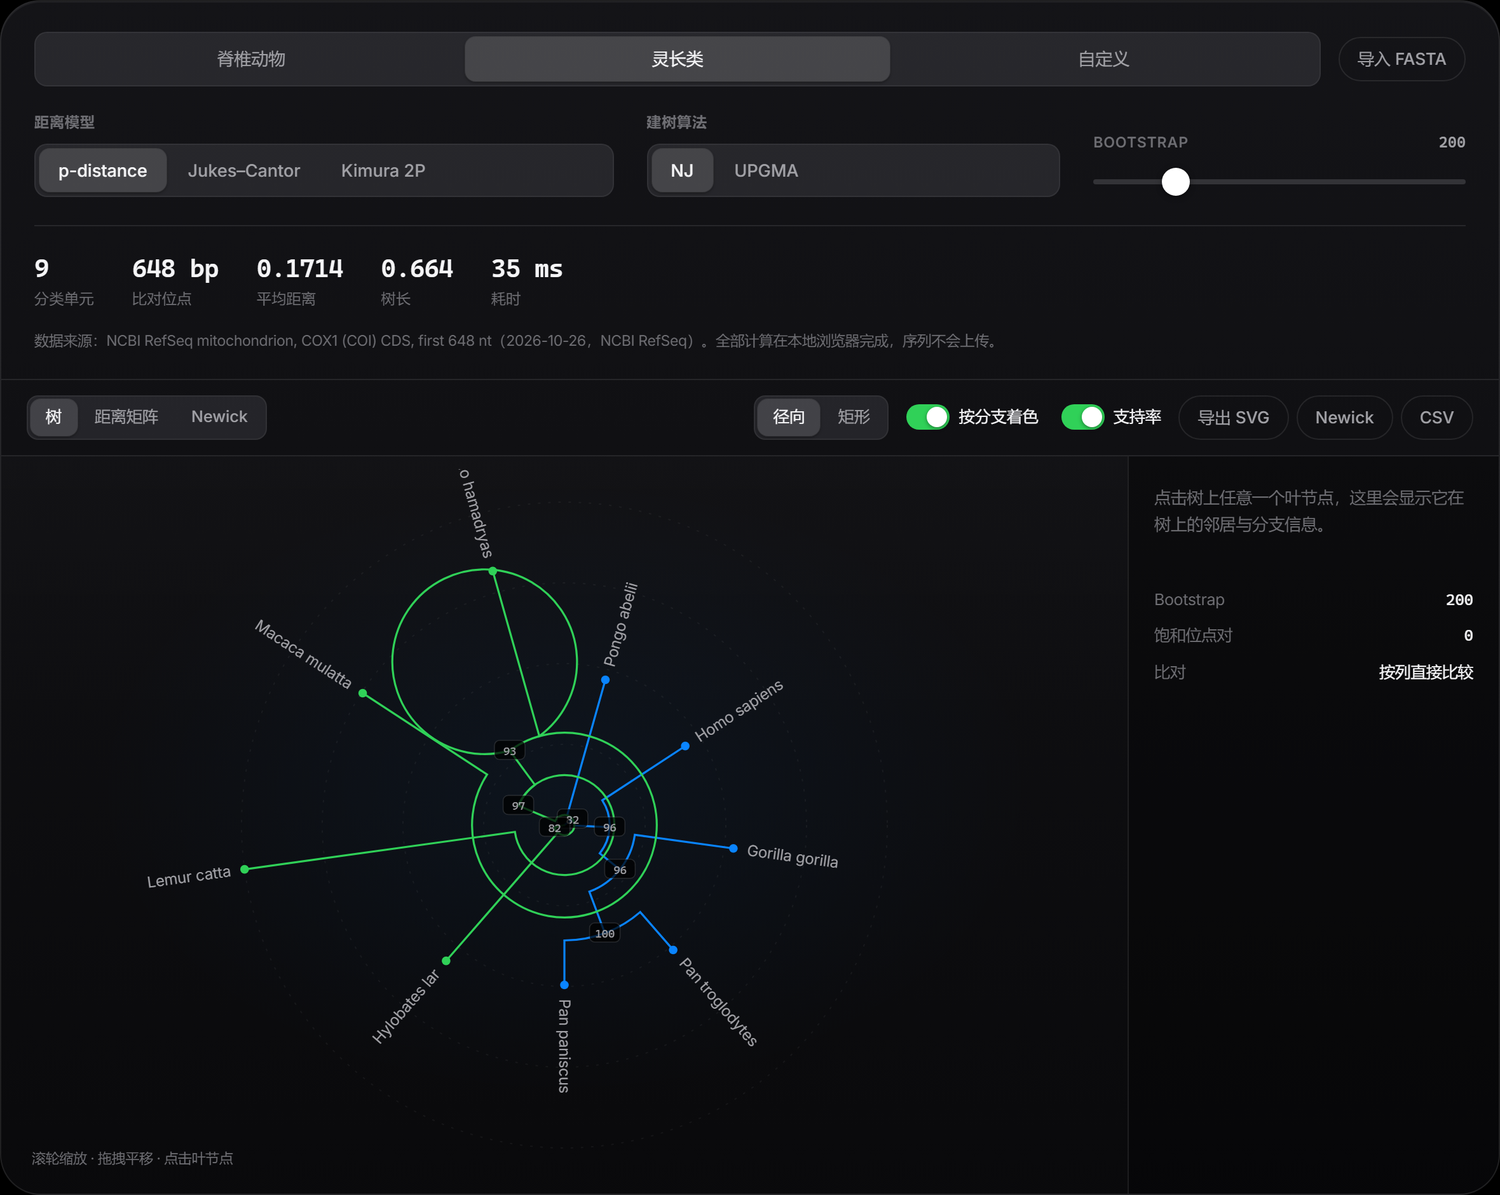
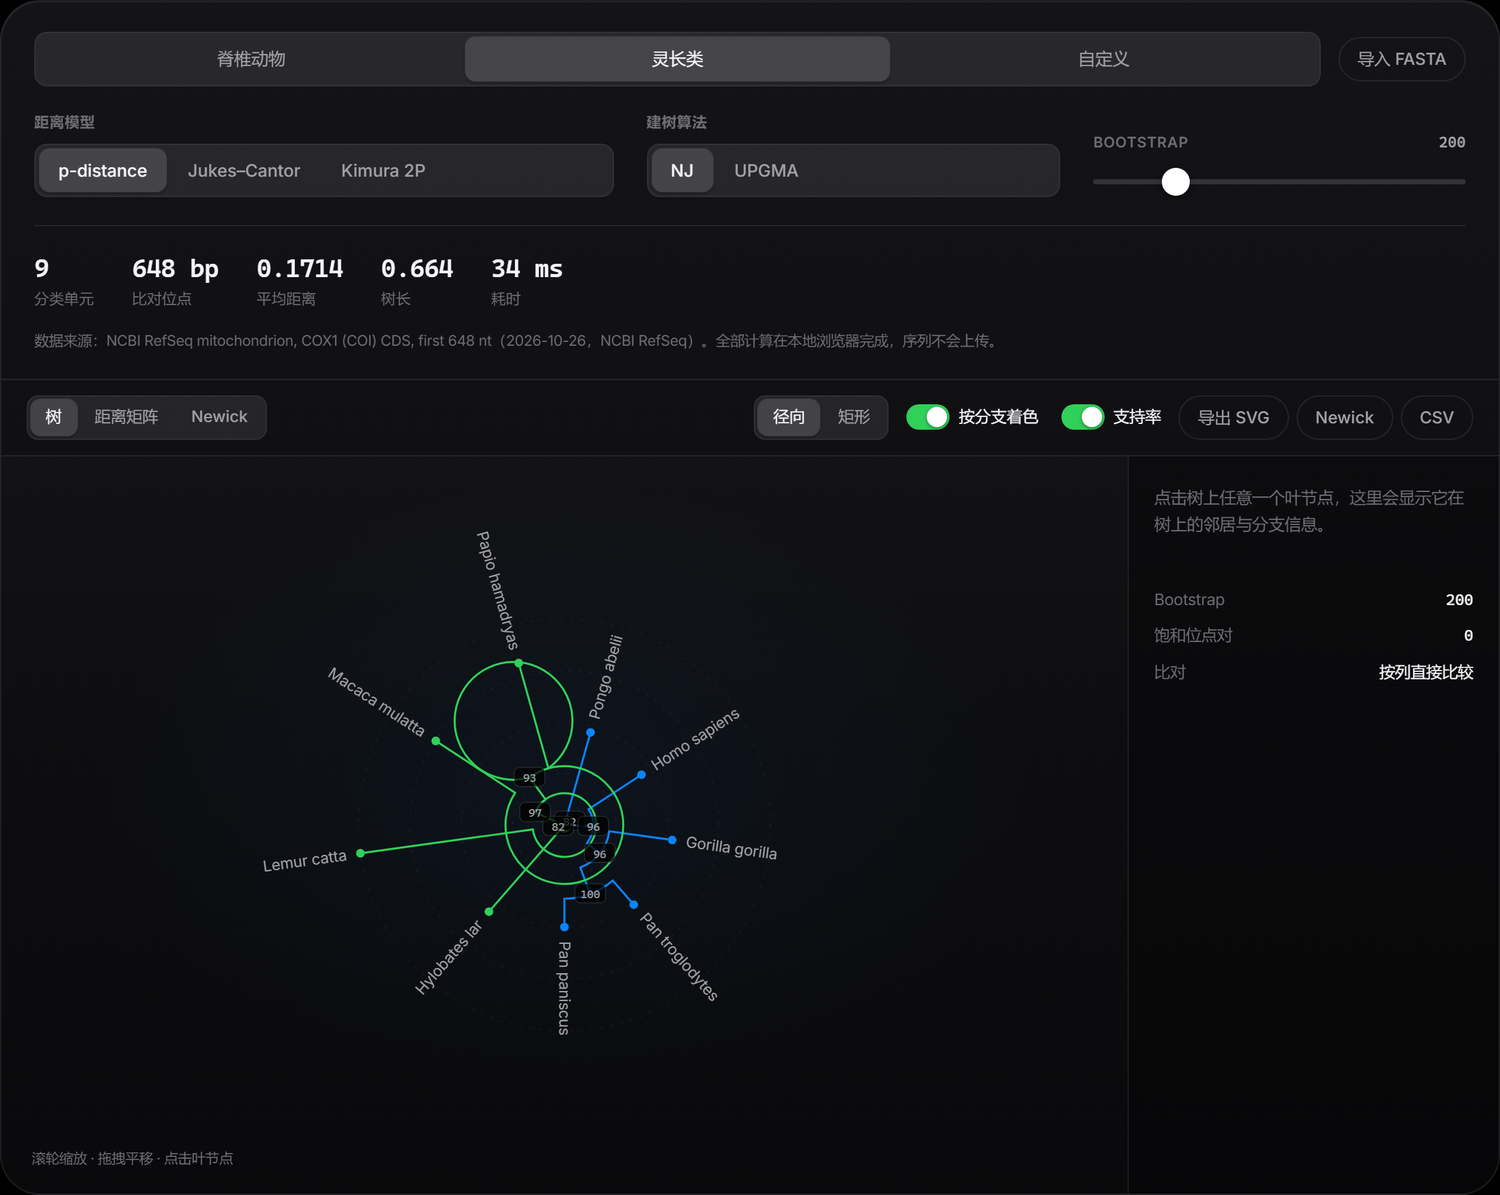
fix(tree): 径向视图为竖直方向的叶标签预留半径空间
标签沿半径方向排布，正上/正下的标签会向上/向下延伸，之前的垂直留白
只考虑了描边和端点，导致窄屏上最外侧的标签贴边。改为按标签长度预留
竖直空间（上限 118px），同时保持水平方向的 labelRoom 逻辑不变。

顺带更新 README 的径向树与移动端截图，并补一张点击叶节点后的邻居面板。

diff --git a/src/components/TreeCanvas.tsx b/src/components/TreeCanvas.tsx
@@ -25,8 +25,8 @@ const labelRoom = (labels: string[]) => {
   const longest = labels.reduce((max, l) => Math.max(max, l.length), 6)
   return Math.min(230, 26 + longest * 6.4)
 }
-/** Vertical padding above/below the radial crown. */
-const RADIAL_PAD_Y = 26
+/** Labels pointing straight up or down need vertical room along the radius. */
+const VERTICAL_LABEL_ROOM = 118
 const RECT_LEFT = 62
 const RECT_RIGHT = 210
 const RECT_TOP = 34
@@ -108,10 +108,11 @@ export default function TreeCanvas(props: TreeCanvasProps) {
 
   const cx = vbW / 2
   const cy = vbH / 2
-  // Radial crown radius: leave horizontal room for the longest label, vertical
-  // room for the outer ring stroke and the tip dots.
+  // Radial crown radius: reserve horizontal room for the longest label and the
+  // same kind of room vertically, because a label pointing straight up/down
+  // extends along the radius instead of sideways.
   const room = labelRoom(labels)
-  const radialR = Math.max(96, Math.min(vbW / 2 - room, vbH / 2 - RADIAL_PAD_Y))
+  const radialR = Math.max(96, Math.min(vbW / 2 - room, vbH / 2 - Math.min(room, VERTICAL_LABEL_ROOM)))
 
   const pos = useCallback(
     (node: { radius: number; angle: number; row: number }): Point => {

diff --git a/README.md b/README.md
@@ -50,7 +50,10 @@ Phylo Studio 把这条链路完整地放在浏览器里：
 ![径向树视图](docs/tree-radial.png)
 
 径向视图适合看整体结构：分支按所属演化支着色，Bootstrap 支持率以胶囊标签标在内部节点上，
-叶标签沿半径方向排布并自动翻转到朝外的一侧。
+叶标签沿半径方向排布并自动翻转到朝外的一侧。点击任意叶节点，右侧会列出它的根距、最近共同
+祖先、所属演化支，以及树上最近的五个邻居及其距离。
+
+![点击叶节点后的邻居面板](docs/leaf-panel.png)
 
 ![矩形树视图](docs/tree-rect.png)
 
